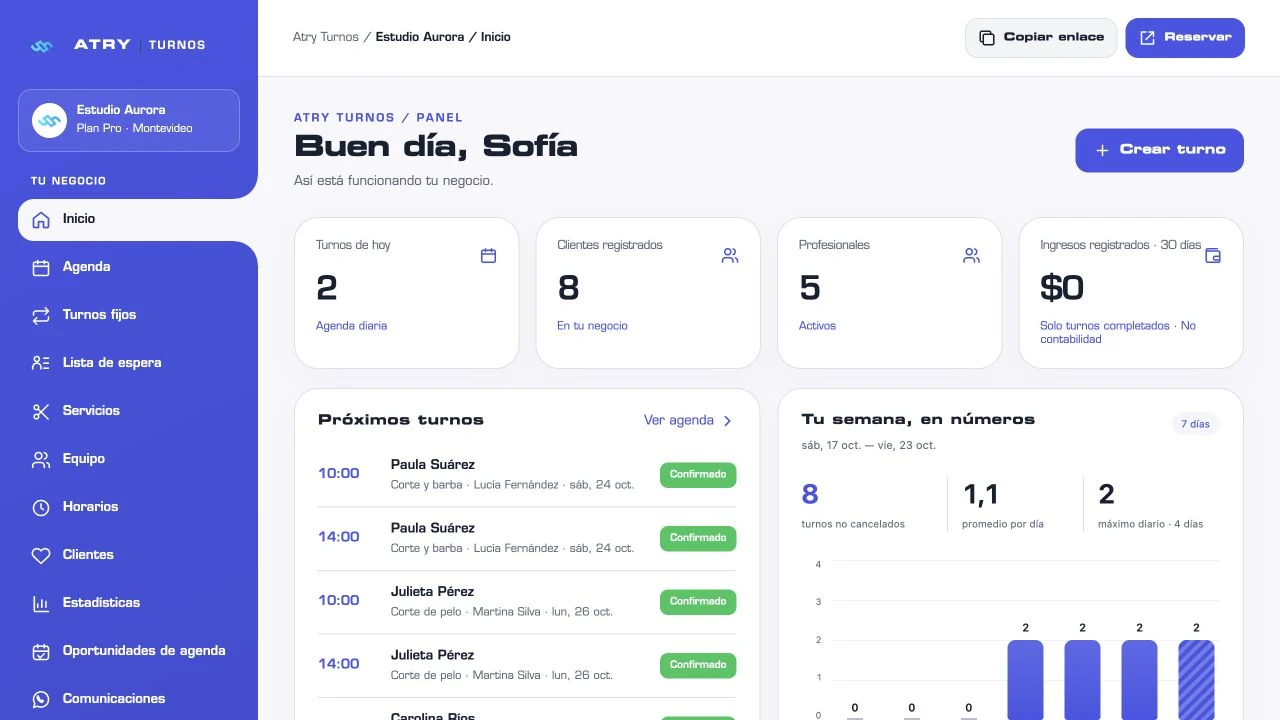
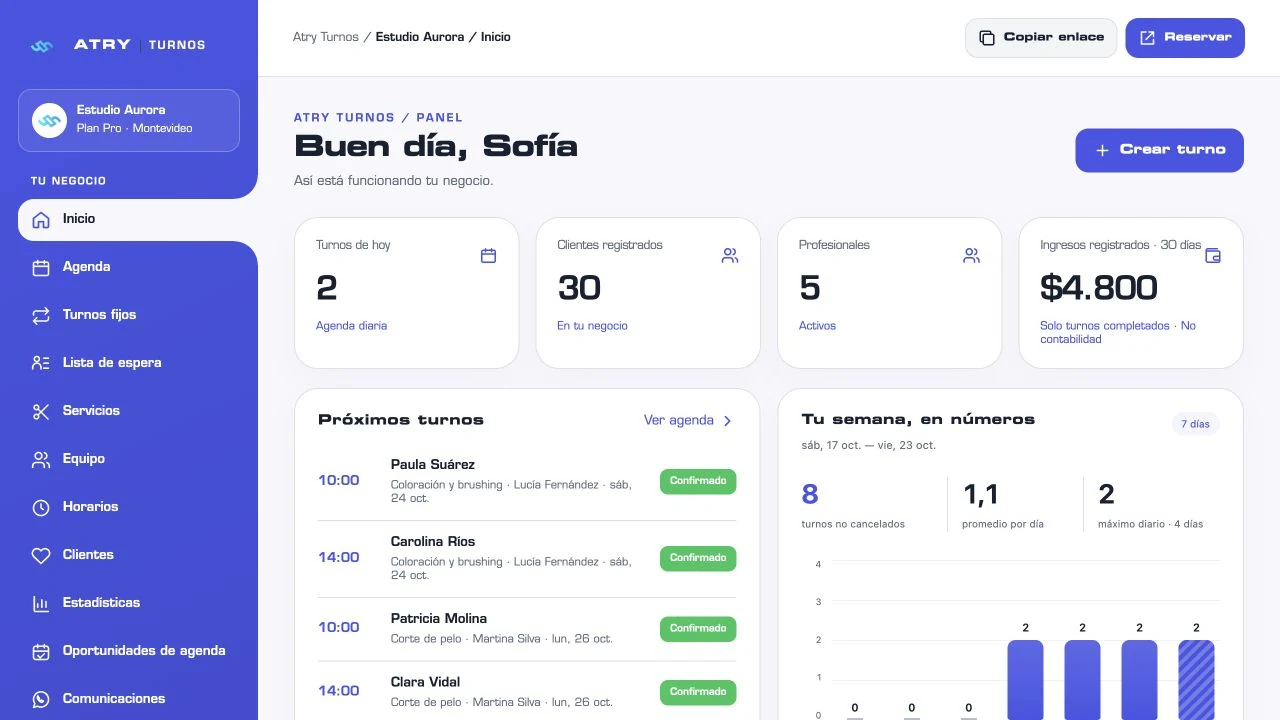
Corregir coherencia de ejemplos y simplificar textos comerciales

diff --git a/web/descubrir.html b/web/descubrir.html
@@ -26,15 +26,15 @@
 <section class="communication wrap reveal" id="comunicacion" aria-labelledby="communication-title">
  <div class="section-head"><div><p class="eyebrow">ATRY COMUNICACIÓN / WHATSAPP MANUAL</p><h2 id="communication-title">El turno tiene sus datos.<br>El mensaje, también.</h2></div><p>Menos copiar y pegar.<br>Más tiempo para atender bien.</p></div>
  <div class="communication-grid">
-  <div class="communication-copy"><h3>Preparado en ATRY.<br>Enviado por vos.</h3><p>Confirmá una reserva, recordá un turno o avisá un cambio. Las plantillas toman el cliente, servicio, fecha y profesional de la reserva. Vos revisás el texto y decidís enviarlo desde WhatsApp.</p><ul class="communication-benefits"><li>Acceso desde Agenda y Clientes.</li><li>Plantillas de ATRY editables y mensajes personalizados.</li><li>Bandeja de recordatorios pendientes, pospuestos y gestionados.</li></ul><p class="channel-note"><strong>En los tres planes.</strong> WhatsApp manual no consume el cupo de correos. Las notificaciones automáticas de Brevo funcionan por separado, según tu plan y configuración.</p><a class="text-link" href="./?demo=1&plan=2#/app/comunicacion">Explorá Comunicación en la demo ↗</a></div>
-  <div class="message-lab" data-message-lab><div class="message-lab-head"><span>DE LA RESERVA AL MENSAJE</span><span>Ejemplo ficticio</span></div><div class="sample-booking"><span class="sample-avatar" aria-hidden="true">LC</span><div><strong>Lucía Costa</strong><span>Corte y peinado · Sofía Pereira</span><span>24 de octubre · 14:30 · Estudio Aurora</span></div><span class="sample-duration">45 min</span></div>
+  <div class="communication-copy"><h3>Preparado en ATRY.<br>Enviado por vos.</h3><p>Confirmá una reserva, recordá un turno o avisá un cambio. Las plantillas toman el cliente, servicio, fecha y profesional de la reserva. Vos revisás el texto y decidís enviarlo desde WhatsApp.</p><ul class="communication-benefits"><li>Acceso desde Agenda y Clientes.</li><li>Plantillas de ATRY editables y mensajes personalizados.</li><li>Bandeja de recordatorios pendientes, pospuestos y gestionados.</li></ul><p class="channel-note"><strong>En los tres planes.</strong> Prepará tus mensajes en ATRY y envialos desde tu WhatsApp. Vos elegís qué decir y cuándo enviarlo.</p><a class="text-link" href="./?demo=1&plan=2#/app/comunicacion">Explorá Comunicación en la demo ↗</a></div>
+  <div class="message-lab" data-message-lab><div class="message-lab-head"><span>DE LA RESERVA AL MENSAJE</span><span>Ejemplo ficticio</span></div><div class="sample-booking"><span class="sample-avatar" aria-hidden="true">PS</span><div><strong>Paula Suárez</strong><span>Coloración y brushing · Lucía Fernández</span><span>24 de octubre · 10:00 · Estudio Aurora</span></div><span class="sample-duration">60 min</span></div>
   <div class="message-choices" role="group" aria-label="Elegir mensaje de ejemplo"><button type="button" data-message="reminder" aria-pressed="true">Recordatorio</button><button type="button" data-message="confirmation" aria-pressed="false">Confirmación</button><button type="button" data-message="reschedule" aria-pressed="false">Cambio</button><button type="button" data-message="cancellation" aria-pressed="false">Cancelación</button><button type="button" data-message="free" aria-pressed="false">Personalizado</button></div>
-  <div class="message-preview" aria-live="polite" aria-atomic="true"><span class="message-caption" data-message-label>Recordatorio preparado</span><p data-message-output>Hola Lucía Costa, te recordamos tu próxima reserva.
+  <div class="message-preview" aria-live="polite" aria-atomic="true"><span class="message-caption" data-message-label>Recordatorio preparado</span><p data-message-output>Hola Paula Suárez, te recordamos tu próxima reserva.
 
-Servicio: Corte y peinado
+Servicio: Coloración y brushing
 Fecha: 24 de octubre
-Hora: 14:30
-Profesional: Sofía Pereira
+Hora: 10:00
+Profesional: Lucía Fernández
 
 ¡Te esperamos en Estudio Aurora!</p></div><p class="message-safety">Demostración del preparado. No abre WhatsApp ni envía mensajes. En el producto, el envío es manual; ATRY no confirma entrega ni lectura.</p></div>
  </div>
@@ -56,6 +56,6 @@ Profesional: Sofía Pereira
 <section class="demo-section" id="demo"><div class="wrap"><div class="demo-heading reveal"><p class="eyebrow">EL MEJOR RECORRIDO ES EL TUYO.</p><h2>No nos creas. <br><em>Probalo.</em></h2><p>Elegí el escenario que se parece a tu negocio. <br>Entrás al producto, sin registrarte.</p></div><div class="demo-picker reveal"><div class="demo-choices" role="group" aria-label="Elegir demostración"><button data-demo-plan="1" aria-pressed="false"><span>01</span><strong>Trabajo por mi cuenta</strong><small>Individual · 1 profesional</small><b><svg class="marketing-icon" viewBox="0 0 24 24" aria-hidden="true"><path d="M7 17 17 7M7 7h10v10"/></svg></b></button><button data-demo-plan="2" aria-pressed="true"><span>02</span><strong>Somos un equipo</strong><small>Negocio · hasta 4 profesionales</small><b><svg class="marketing-icon" viewBox="0 0 24 24" aria-hidden="true"><path d="M7 17 17 7M7 7h10v10"/></svg></b></button><button data-demo-plan="3" aria-pressed="false"><span>03</span><strong>Necesito más herramientas</strong><small>Pro · hasta 10 profesionales</small><b><svg class="marketing-icon" viewBox="0 0 24 24" aria-hidden="true"><path d="M7 17 17 7M7 7h10v10"/></svg></b></button></div><div class="demo-detail" aria-live="polite"><div><span class="demo-tag" data-demo-tag>DEMO / NEGOCIO</span><h3 data-demo-title>Tu equipo. <br>Una misma agenda.</h3><p data-demo-description>Recorré un negocio con tres profesionales. Filtrá sus agendas, editá un servicio y mirá cómo se organiza una visita.</p><ul data-demo-tasks><li>Creá un turno de prueba.</li><li>Explorá la lista de espera y los turnos fijos.</li><li>Abrí el enlace de reservas de tu negocio.</li></ul></div><a class="button light" data-demo-link aria-label="Probar Negocio sin cuenta" href="./?demo=1&plan=2#/app/inicio">Probar sin cuenta <span><svg class="marketing-icon" viewBox="0 0 24 24" aria-hidden="true"><path d="M7 17 17 7M7 7h10v10"/></svg></span></a></div></div><p class="demo-note">Es un espacio ficticio, solo para explorar. No crea cuentas ni reservas reales, no envía mensajes y no genera cargos. Los cambios se descartan al recargar; cada pestaña mantiene su propia simulación.</p></div></section>
 <section class="steps wrap reveal"><div><p class="eyebrow">DEL PRIMER PASO AL PRIMER TURNO.</p><h2>Preparalo a tu manera. <br>Compartilo con confianza.</h2></div><ol><li><span>01</span><div><h3>Definí cómo atendés.</h3><p>Cargá servicios, duraciones, horarios y pausas.</p></div></li><li><span>02</span><div><h3>Dale la bienvenida a tus clientes.</h3><p>Compartí tu enlace. Tus clientes eligen los horarios disponibles.</p></div></li><li><span>03</span><div><h3>Seguí tu día desde un solo lugar.</h3><p>Gestioná las reservas desde la computadora o el teléfono.</p></div></li></ol></section>
 <section class="plans wrap reveal" id="planes"><div class="section-head"><div><p class="eyebrow">EL ESPACIO JUSTO PARA VOS.</p><h2>Tu próximo paso. <br>A tu ritmo.</h2></div><p>Suscripción mensual por negocio. <br>Precios en pesos uruguayos.</p></div><div class="plan-grid"><article><p class="eyebrow">TU PROPIA AGENDA</p><h3>Individual</h3><p class="price">$790 <span>UYU / mes</span></p><p class="plan-fit">Atendés por tu cuenta.</p><p class="plan-capacity">1 profesional.</p><ul><li>Agenda diaria, semanal y mensual</li><li>Reservas públicas, servicios y clientes</li><li>Jornadas, pausas y fechas especiales</li><li>Paleta y apariencia esencial</li><li>WhatsApp manual y 2 plantillas propias</li><li>Tu fotografía de perfil opcional</li></ul><p class="quota">Sin correos automáticos de reservas.</p><a class="button outline" href="./?demo=1&plan=1#/app/inicio" aria-label="Probar Individual sin cuenta">Probar sin cuenta <svg class="marketing-icon" viewBox="0 0 24 24" aria-hidden="true"><path d="M7 17 17 7M7 7h10v10"/></svg></a></article><article class="featured"><p class="eyebrow">PARA CRECER EN EQUIPO</p><h3>Negocio</h3><p class="price">$1.490 <span>UYU / mes</span></p><p class="plan-fit">Coordinás un equipo.</p><p class="plan-capacity">Hasta 4 profesionales activos.</p><ul><li>Todo lo incluido en Individual</li><li>Equipo, usuarios y permisos</li><li>Turnos fijos y lista de espera</li><li>Estadísticas básicas</li><li>Tu logo y colores de marca</li><li>Hasta 10 plantillas propias de WhatsApp</li></ul><p class="quota">Confirmaciones y recordatorios por correo.<strong>Hasta 300 correos por ciclo mensual.</strong></p><a class="button light" href="./?demo=1&plan=2#/app/inicio" aria-label="Probar Negocio sin cuenta">Probar sin cuenta <svg class="marketing-icon" viewBox="0 0 24 24" aria-hidden="true"><path d="M7 17 17 7M7 7h10v10"/></svg></a></article><article><p class="eyebrow">MÁS ESPACIO PARA GESTIONAR</p><h3>Pro</h3><p class="price">$2.490 <span>UYU / mes</span></p><p class="plan-fit">Gestionás más profesionales y recursos.</p><p class="plan-capacity">Hasta 10 profesionales activos.</p><ul><li>Todo lo incluido en Negocio</li><li>Estadísticas avanzadas y exportaciones</li><li>Recursos compartidos</li><li>Oportunidades de agenda</li><li>Más opciones de apariencia</li><li>Hasta 100 plantillas propias de WhatsApp</li></ul><p class="quota">Confirmaciones y recordatorios por correo.<strong>Hasta 900 correos por ciclo mensual.</strong></p><a class="button outline" href="./?demo=1&plan=3#/app/inicio" aria-label="Probar Pro sin cuenta">Probar sin cuenta <svg class="marketing-icon" viewBox="0 0 24 24" aria-hidden="true"><path d="M7 17 17 7M7 7h10v10"/></svg></a></article></div><p class="plans-common">Todos incluyen las 6 plantillas editables de ATRY, mensajes manuales por WhatsApp y su bandeja de recordatorios. Las plantillas propias se suman a las de ATRY; en Pro, 100 es el límite técnico.</p><aside class="plan-help"><div><strong>¿No sabés cuál elegir?</strong><p>Hablemos de tu negocio y encontremos el plan que te acompañe.</p></div><a class="text-link" href="https://wa.me/59893802328" target="_blank" rel="noopener">Consultar por WhatsApp <svg class="marketing-icon" viewBox="0 0 24 24" aria-hidden="true"><path d="M7 17 17 7M7 7h10v10"/></svg></a></aside><p class="plan-terms">La contratación y la activación se coordinan con ATRY. Tratamiento impositivo pendiente de confirmación antes de contratar. El cupo se comparte entre confirmaciones, recordatorios y otros correos operativos, requiere configuración y no garantiza entrega. No incluye cobros en línea ni mensajes automáticos de WhatsApp.</p></section>
-<section class="faq wrap reveal" id="preguntas"><div><p class="eyebrow">ELEGIR TAMBIÉN ES ENTENDER.</p><h2>Hablemos claro.</h2><p>Tu negocio merece información concreta.</p></div><div><details><summary>¿Puedo probar sin crear una cuenta?</summary><p>Sí. Las tres demos son independientes y funcionan en memoria. Podés explorar el panel, crear turnos de prueba y conocer los límites de cada plan. No se envían mensajes ni se guardan esos cambios en un negocio real.</p></details><details><summary>¿Sirve si trabajo solo?</summary><p>Individual está pensado para un profesional: agenda, servicios, horarios, clientes y un enlace de reservas. No agrega controles de equipo que no necesitás.</p></details><details><summary>¿Un cliente puede elegir varios servicios?</summary><p>Si habilitás esa opción en las reglas del negocio, puede elegir hasta seis servicios distintos y ordenarlos. El sistema busca un recorrido consecutivo con profesionales habilitados y disponibles. La visita se confirma completa; si los tiempos o bloqueos no permiten combinarla, ese recorrido no se ofrece.</p></details><details><summary>¿Puedo usar el celular y mi propia marca?</summary><p>Podés acceder desde el navegador del teléfono o de la computadora. Todos los planes parten de la identidad ATRY; Negocio suma logo y colores propios, y Pro ofrece una personalización más amplia.</p></details><details><summary>¿Cómo contrato y cuándo se habilita?</summary><p>Creás tu cuenta y tu negocio, solicitás el plan desde la aplicación y coordinás con ATRY por WhatsApp. La solicitud no cambia por sí sola tu suscripción. ATRY confirma la habilitación después de coordinar y verificar el pago.</p></details><details><summary>¿WhatsApp envía los recordatorios automáticamente?</summary><p>No. ATRY prepara el mensaje con los datos de la reserva. Vos lo revisás y lo enviás desde tu sesión de WhatsApp o WhatsApp Web. La bandeja permite organizar pendientes, pospuestos y gestionados; esos estados no confirman entrega ni lectura. Está disponible en los tres planes y no consume correos de Brevo.</p></details><details><summary>¿Qué diferencia hay con los correos de Brevo?</summary><p>Los correos operativos sí pueden enviarse automáticamente, según configuración y cuota: Individual no los incluye; Negocio dispone de hasta 300 y Pro hasta 900 por ciclo mensual. Aceptación del proveedor no significa entrega confirmada. Activar WhatsApp no cambia esas preferencias. No hay cobros en línea y las demos no envían mensajes.</p></details></div></section>
+<section class="faq wrap reveal" id="preguntas"><div><p class="eyebrow">ELEGIR TAMBIÉN ES ENTENDER.</p><h2>Hablemos claro.</h2><p>Tu negocio merece información concreta.</p></div><div><details><summary>¿Puedo probar sin crear una cuenta?</summary><p>Sí. Las tres demos son independientes y funcionan en memoria. Podés explorar el panel, crear turnos de prueba y conocer los límites de cada plan. No se envían mensajes ni se guardan esos cambios en un negocio real.</p></details><details><summary>¿Sirve si trabajo solo?</summary><p>Individual está pensado para un profesional: agenda, servicios, horarios, clientes y un enlace de reservas. No agrega controles de equipo que no necesitás.</p></details><details><summary>¿Un cliente puede elegir varios servicios?</summary><p>Si habilitás esa opción en las reglas del negocio, puede elegir hasta seis servicios distintos y ordenarlos. El sistema busca un recorrido consecutivo con profesionales habilitados y disponibles. La visita se confirma completa; si los tiempos o bloqueos no permiten combinarla, ese recorrido no se ofrece.</p></details><details><summary>¿Puedo usar el celular y mi propia marca?</summary><p>Podés acceder desde el navegador del teléfono o de la computadora. Todos los planes parten de la identidad ATRY; Negocio suma logo y colores propios, y Pro ofrece una personalización más amplia.</p></details><details><summary>¿Cómo contrato y cuándo se habilita?</summary><p>Creás tu cuenta y tu negocio, solicitás el plan desde la aplicación y coordinás con ATRY por WhatsApp. La solicitud no cambia por sí sola tu suscripción. ATRY confirma la habilitación después de coordinar y verificar el pago.</p></details><details><summary>¿WhatsApp envía los recordatorios automáticamente?</summary><p>No. ATRY prepara el mensaje con los datos de la reserva. Vos lo revisás y lo enviás desde tu sesión de WhatsApp o WhatsApp Web. La bandeja permite organizar pendientes, pospuestos y gestionados; esos estados no confirman entrega ni lectura. Está disponible en los tres planes.</p></details><details><summary>¿También puedo enviar recordatorios por correo?</summary><p>Sí. Negocio y Pro incluyen confirmaciones y recordatorios automáticos por correo, que podés activar para tu negocio. Negocio incluye hasta 300 correos por mes y Pro hasta 900. WhatsApp se envía manualmente en los tres planes.</p></details></div></section>
 <section class="closing wrap reveal"><p class="eyebrow">HACÉ LUGAR PARA LO QUE VIENE.</p><h2>Que organizar tu negocio <br>también se sienta bien.</h2><p>Empezá por verlo. Seguí por hacerlo tuyo.</p><div class="actions"><a class="button light" href="#demo">Probar sin cuenta <span><svg class="marketing-icon" viewBox="0 0 24 24" aria-hidden="true"><path d="M7 17 17 7M7 7h10v10"/></svg></span></a><a class="text-link" href="./#/registro">Quiero crear mi negocio <svg class="marketing-icon" viewBox="0 0 24 24" aria-hidden="true"><path d="M7 17 17 7M7 7h10v10"/></svg></a></div><span>Diseñado con intención. Por ATRY Agency.</span></section>
 </main><footer class="agency-footer"><div class="wrap"><div class="agency-footer-top"><div><p class="eyebrow">DETRÁS DE CADA DETALLE.</p><h2>Ideas con intención.<br>Diseño que se siente.</h2></div><a class="agency-signature" href="https://atry-agency.github.io/ATRYAGENCY/" target="_blank" rel="noopener"><img src="./assets/brand/atry-agency-original-white.png" width="360" height="128" alt="ATRY Agency, logotipo original"><span>Conocé el estudio detrás de ATRY Turnos <svg class="marketing-icon" viewBox="0 0 24 24"><path d="M7 17 17 7M7 7h10v10"/></svg></span></a></div><div class="agency-footer-bottom"><p>Un producto de ATRY Agency.<br>Hecho para cuidar tu tiempo y tu marca.</p><nav aria-label="Enlaces del pie"><a href="#tu-marca">Tu marca en ATRY</a><a href="#demo">Probar sin cuenta</a><a href="./#/login">Iniciar sesión</a><a href="https://wa.me/59893802328" target="_blank" rel="noopener">Hablemos <svg class="marketing-icon" viewBox="0 0 24 24"><path d="M7 17 17 7M7 7h10v10"/></svg></a></nav></div><div class="agency-legal"><span>© <span data-year>2026</span> ATRY Turnos · Uruguay</span><a href="#contenido">Volver arriba <svg class="marketing-icon" viewBox="0 0 24 24"><path d="M12 20V4m-6 6 6-6 6 6"/></svg></a></div></div></footer></body></html>

diff --git a/tests/landing-commercial.test.js b/tests/landing-commercial.test.js
@@ -8,6 +8,6 @@ function explorer(){const elements={},buttons=['panel','agenda','reservas','comu
 test('Explorer keeps latest selection when an older image finishes later',async()=>{const x=explorer(),first=x.context.chooseScreen(x.buttons[1]),last=x.context.chooseScreen(x.buttons[3]);x.images[1].resolve();await last;x.images[0].resolve();await first;assert.equal(x.elements['[data-screen-image]'].alt,'comunicacion');assert.equal(x.elements['#screen-panel'].attrs['aria-busy'],'false');assert.equal(x.buttons[3].attrs['aria-selected'],'true');assert.equal(x.buttons[3].tabIndex,0);assert.equal(x.buttons[1].tabIndex,-1)});
 test('A failed screenshot retains the existing image and reports retry',async()=>{const x=explorer();x.elements['[data-screen-image]'].src='prior.webp';const pending=x.context.chooseScreen(x.buttons[1]);x.images[0].reject(Error('offline'));await pending;assert.equal(x.elements['[data-screen-image]'].src,'prior.webp');assert.match(x.elements['[data-screen-caption]'].textContent,/anterior/);assert.equal(x.elements['#screen-panel'].attrs['aria-busy'],'false')});
 test('Commercial messages use the product renderer, including reschedule and cancellation',()=>{const core=require('../web/whatsapp-core');for(const key of ['confirmation','reminder','reschedule','cancellation','free']){const text=core.render(core.templates[key],{cliente:'Lucía Costa',negocio:'Estudio Aurora',profesional:'Sofía',servicio:'Corte',fecha:'24 de octubre',hora:'14:30',duracion:'45',direccion:'',fecha_anterior:'23 de octubre',hora_anterior:'10:00',enlace:'[enlace de ejemplo]'});assert.ok(!/[{}]/.test(text));assert.match(text,/Lucía/)}assert.deepEqual(['individual','negocio','pro'].map(core.limits),[2,10,100]);assert.match(source,/core\.render\(text,messageValues\)/);assert.doesNotMatch(source,/core\.link\(|wa\.me|fetch\(/)});
-test('Capture fixture changes only isolated seed data, with natural names and sample prices',async()=>{const {captureDemo}=require('../scripts/preview-commercial');const ctx={module:{exports:{}},require:p=>require('../web/'+p),structuredClone,crypto:require('node:crypto').webcrypto,URL,URLSearchParams};vm.createContext(ctx);vm.runInContext(captureDemo(),ctx);const {createDemo,plans}=ctx.module.exports;const fixture=createDemo(3,plans);assert.equal(fixture.business.name,'Estudio Aurora');assert.equal(fixture.data.staff[0].name,'Sofía Pereira');assert.equal(fixture.data.services[0].price_uyu,650);assert.equal(fixture.data.customers[0].phone,'');assert.equal(fixture.data.customers[0].email,'');assert.ok(fixture.data.bookings.every(b=>b.price_uyu>0));const ordinary=require('../web/demo').createDemo(3,plans);assert.equal(ordinary.business.name,'NegocioPlan3');assert.equal(ordinary.data.services[0].price_uyu,0)});
+test('Capture fixture changes only isolated seed data, with natural names and sample prices',async()=>{const {captureDemo}=require('../scripts/preview-commercial');const ctx={module:{exports:{}},require:p=>require('../web/'+p),structuredClone,crypto:require('node:crypto').webcrypto,URL,URLSearchParams};vm.createContext(ctx);vm.runInContext(captureDemo(),ctx);const {createDemo,plans}=ctx.module.exports;const fixture=createDemo(3,plans);assert.equal(fixture.business.name,'Estudio Aurora');assert.equal(fixture.data.staff[0].name,'Sofía Pereira');assert.equal(fixture.data.services[0].price_uyu,650);assert.equal(fixture.data.services[1].name,'Coloración y brushing');assert.ok(!fixture.data.services.some(s=>/barba/i.test(s.name)));assert.equal(fixture.data.customers[0].phone,'');assert.equal(fixture.data.customers[0].email,'');assert.ok(fixture.data.bookings.every(b=>b.price_uyu>0));assert.equal(new Set(fixture.data.bookings.map(b=>b.customer_id)).size,fixture.data.bookings.length);for(const b of fixture.data.bookings){const service=fixture.data.services.find(s=>s.id===b.service_id);assert.equal((Date.parse(b.ends_at)-Date.parse(b.starts_at))/60000,service.duration_min);assert.equal(b.price_uyu,service.price_uyu);}const ordinary=require('../web/demo').createDemo(3,plans);assert.equal(ordinary.business.name,'NegocioPlan3');assert.equal(ordinary.data.services[0].price_uyu,0)});
 test('Landing assets have explicit dimensions; plan and entry URLs remain intact',()=>{const html=fs.readFileSync('web/descubrir.html','utf8');for(const match of html.matchAll(/<img\b[^>]*>/g))assert.match(match[0],/width="\d+" height="\d+"/);for(const price of ['$790','$1.490','$2.490'])assert.ok(html.includes(price));for(const route of ['./#/login','./#/registro','./?demo=1&plan=1#/app/inicio','./?demo=1&plan=2#/app/inicio','./?demo=1&plan=3#/app/inicio'])assert.ok(html.includes(route));for(const name of ['panel','agenda','reservas','comunicacion','foto','clientes'])assert.ok(fs.statSync('web/assets/landing/'+name+'.webp').size<100000);assert.equal((html.match(/data-screen="/g)||[]).length,4)});
 test('Capture gate rejects missing spacing and incomplete images instead of accepting a generated file',()=>{const {inspect}=require('../scripts/commercial-quality');const nodes={'.pb-identity':{},'.pb-signature':{display:'flex'},'.pb-facts':{display:'grid'},'.pb-facts>span':{gap:'9px'}};const doc={querySelector:s=>nodes[s],querySelectorAll:()=>[],documentElement:{clientWidth:390,scrollWidth:390,clientHeight:844}};assert.equal(inspect(doc,e=>e).ready,true);nodes['.pb-signature'].display='block';assert.equal(inspect(doc,e=>e).ready,false);nodes['.pb-signature'].display='flex';nodes['.pb-facts>span'].gap='0px';assert.equal(inspect(doc,e=>e).ready,false);nodes['.pb-facts>span'].gap='9px';doc.querySelectorAll=()=>[{getBoundingClientRect:()=>({width:50,top:0,bottom:50}),complete:false,naturalWidth:0}];assert.equal(inspect(doc,e=>e).ready,false)});

diff --git a/scripts/preview-commercial.js b/scripts/preview-commercial.js
@@ -7,7 +7,13 @@ function captureDemo(){let source=fs.readFileSync(path.join(root,'demo.js'),'utf
  source=source.replace("name:'Propietario Demo '+n","name:'Sofía Pereira'").replace("name:'NegocioPlan'+n","name:'Estudio Aurora'")
  .replace("description:'Demostración ficticia. No se toman reservas reales ni se envían mensajes.'","description:'Peluquería y cuidado personal. Un momento para vos. Datos ficticios.'")
  .replace("name:i?'Profesional '+(i+1):user.name","name:"+JSON.stringify(names)+"[i]")
- .replace("name:'Cliente Ejemplo '+(i+1)","name:"+JSON.stringify(['Ana Costa','Paula Suárez','Florencia Díaz','Julieta Pérez','Carolina Ríos','Natalia Santos','Victoria Lima','Emilia Torres'])+"[i]")
+ .replace("name:'Cliente Ejemplo '+(i+1)","name:"+JSON.stringify(['Ana Costa','Adriana Suárez','Florencia Díaz','Julieta Pérez','Victoria Lima','Natalia Santos','Emilia Torres','Mariana López','Daniela Castro','Cecilia Méndez','Andrea Silva','Gabriela Núñez','Paula Suárez','Carolina Ríos','Lorena Acosta','Verónica Sosa','Patricia Molina','Clara Vidal','Romina Cabrera','Luciana Ramos','Micaela Duarte','Elena Pereira','Sandra Reyes','Inés Ferreira','Beatriz León','Noelia Medina','Laura Benítez','Camila Ortiz','Valeria Santos','Malena Costa'])+"[i]")
+ .replaceAll('Corte y barba','Coloración y brushing')
+ .replace('customers:Array.from({length:8}', 'customers:Array.from({length:30}')
+ .replace('customer_id:data.customers[j%8].id',"customer_id:data.customers[(2*(i+5)+(hour==='14:00'?1:0))%30].id")
+ .replace('completed_revenue:0',"completed_revenue:all.filter(b=>b.status==='completed').reduce((sum,b)=>sum+b.price_uyu,0)")
+ .replace('return {request,number:n,business:biz,data,entitlements};',"for(const c of data.customers)c.visits=data.bookings.filter(b=>b.customer_id===c.id).length;return {request,number:n,business:biz,data,entitlements};")
+ .replaceAll('Cliente fijo de ejemplo','Natalia Santos').replaceAll('Cliente en espera','Emilia Torres').replaceAll('Sillón de ejemplo','Sillón de peluquería')
  .replace('price_uyu:0,deposit_percent:0','price_uyu:[650,950,800][i],deposit_percent:0')
  .replace('duration_min:duration,price_uyu:0','duration_min:duration,price_uyu:[400,550,750][i]')
  .replace("status:i<0?j%4===0?'cancelled':'completed':'confirmed',price_uyu:0","status:i<0?j%4===0?'cancelled':'completed':'confirmed',price_uyu:v.price_uyu");

diff --git a/web/descubrir.js b/web/descubrir.js
@@ -74,7 +74,7 @@ document.querySelectorAll('[data-showcase-open]').forEach(link=>link.addEventLis
 updateShowcaseLinks();
 
 // Same pure template renderer as the product. No phone number, send link or API.
-const messageValues={cliente:'Lucía Costa',negocio:'Estudio Aurora',profesional:'Sofía Pereira',servicio:'Corte y peinado',fecha:'24 de octubre',hora:'14:30',duracion:'45',direccion:'',fecha_anterior:'23 de octubre',hora_anterior:'10:00',enlace:'[enlace de reservas del negocio]'};
+const messageValues={cliente:'Paula Suárez',negocio:'Estudio Aurora',profesional:'Lucía Fernández',servicio:'Coloración y brushing',fecha:'24 de octubre',hora:'10:00',duracion:'60',direccion:'',fecha_anterior:'23 de octubre',hora_anterior:'14:00',enlace:'[enlace de reservas del negocio]'};
 function renderMessageExample(key){
  const core=window.AtryWhatsApp;if(!core||!core.templates[key])return;
  const text=key==='free'?core.templates.free+'¿Querés que coordinemos tu próxima visita?':core.templates[key];

diff --git a/docs/LANDING-COMMERCIAL-REVIEW-2026-10-23.md b/docs/LANDING-COMMERCIAL-REVIEW-2026-10-23.md
@@ -61,8 +61,8 @@ CSS analizado con esbuild sin advertencias; JavaScript válido; git diff --check
 
 ## Rendimiento
 
-- Captura inicial: 110,412 → 58,114 bytes (47% menos).
-- Tres capturas originales principales: 247,294 → 161,484 bytes (35% menos), más imágenes nuevas diferidas.
+- Captura inicial: 110,412 → 59,602 bytes (46% menos).
+- Tres capturas originales principales: 247,294 → 164,058 bytes (34% menos), más imágenes nuevas diferidas.
 - Capturas WebP sin dependencias externas, dimensiones declaradas y carga diferida secundaria.
 - JS de landing ~5.3 KB gzip; motor puro WhatsApp ~2.6 KB gzip; CSS ~10.4 KB gzip. Sin librería de animación ni scroll hijack.
 - No se midieron Core Web Vitals reales ni una puntuación Lighthouse; no se inventan resultados.
@@ -73,3 +73,10 @@ Ejecutar `node scripts/preview-commercial.js` y abrir `http://127.0.0.1:3473/des
 La ruta `/__capture__/?demo=1&plan=3&capture=1#/app/inicio` sirve exclusivamente la fixture comercial local. Las herramientas viven fuera de web/ y no forman parte de GitHub Pages.
 
 Pendientes antes de publicar: aprobación visual del usuario de composición, capturas y texto comercial; comprobación en Safari de un iPhone físico (la emulación de tamaño no sustituye Safari real). No se hizo push, merge, despliegue ni operación remota de datos.
+
+
+## Revisión de coherencia comercial posterior
+
+A pedido del usuario, se reemplazó Corte y barba por Coloración y brushing en la fixture de Estudio Aurora. Las capturas de Inicio, Agenda, Clientes, Comunicación y Reservas se renderizaron nuevamente. Se usan 30 contactos ficticios y una clienta distinta en cada reserva de la muestra; no se repite una coloración para la misma persona dentro del período. Duraciones y precios coinciden con el catálogo, las cantidades de visitas salen de las reservas y el resumen suma los servicios completados (ejemplo: $4.800). La demostración de WhatsApp representa la misma reserva de Paula Suárez con Lucía Fernández, el 24 de octubre a las 10:00, Coloración y brushing, 60 minutos.
+
+La explicación comercial y FAQ ya no mencionan Brevo: se usa lenguaje orientado al cliente. El proveedor puede seguir apareciendo en capturas de la aplicación real; no se alteró la interfaz del SaaS para ocultarlo. Continúa sin publicar.
